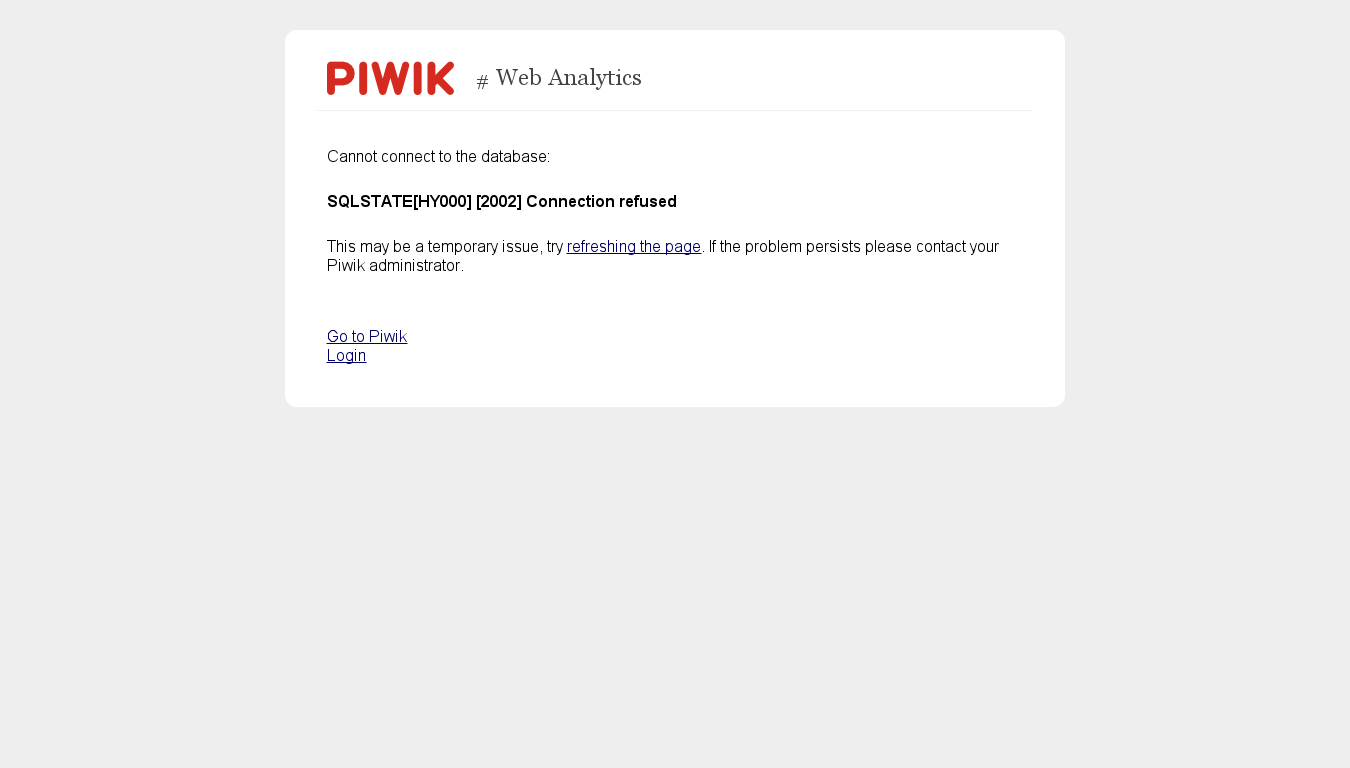
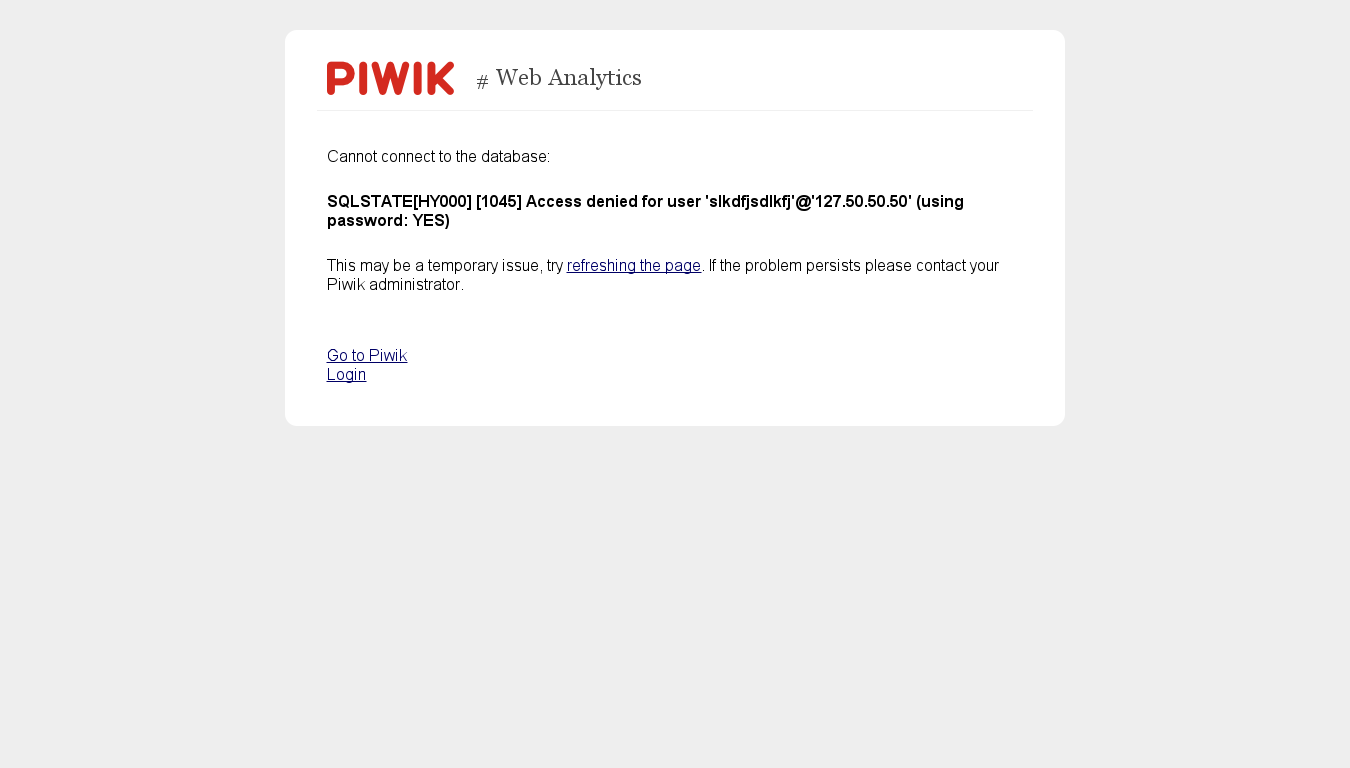
Updating UI screenshots and make Installation test safer for local testing. [ci skip]

Changed region(s): [[0.2489, 0.2812, 0.7467, 0.375], [0.3422, 0.25, 0.7156, 0.2812], [0.2489, 0.4375, 0.3111, 0.5]]

diff --git a/specs/Installation_spec.js b/specs/Installation_spec.js
@@ -14,7 +14,7 @@ describe("Installation", function () {
     this.fixture = null;
 
     before(function () {
-        testEnvironment.configFileLocal = path.join(PIWIK_INCLUDE_PATH, "/config/config.ini.php");
+        testEnvironment.configFileLocal = path.join(PIWIK_INCLUDE_PATH, "/tmp/test.config.ini.php");
         testEnvironment.dontUseTestConfig = true;
         testEnvironment.tablesPrefix = 'piwik_';
         testEnvironment.save();
